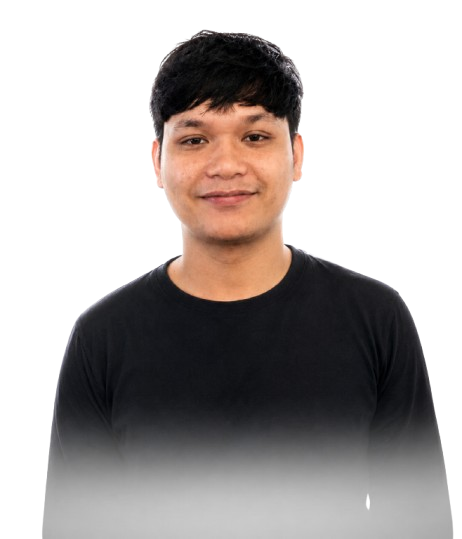
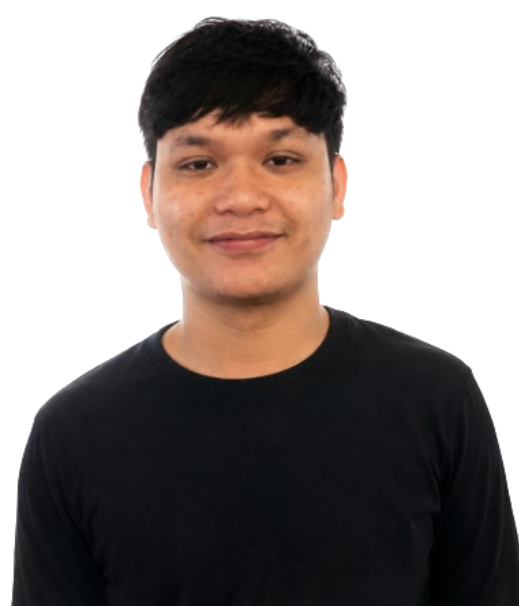
edit2

diff --git a/src/data/profile.ts b/src/data/profile.ts
@@ -84,12 +84,6 @@ export const profile = {
   /** Short pitch. hero paragraph. Keep it to 2–3 sentences. */
   pitch:
     'I build the pipelines and cloud platforms that move enterprise data from where it lands to where decisions get made. Nine years across oil and gas, government, telecommunications and finance. as a technical consultant, data engineer and data scientist. delivering systems that go live and stay live.',
-  /** Longer story. About section. Each string is a paragraph. */
-  about: [
-    'I work at the point where data engineering meets cloud architecture. Most of my days are spent designing integration layers. pulling from DB2, SQL Server, PostgreSQL, Oracle and MySQL through DataStage, SSIS, Talend and Azure Data Factory. and making sure what comes out the other end is something an analyst or a model can actually trust.',
-    'Since 2019 I have worked as a Technical Consultant at IBM Indonesia, which means I am usually embedded with a client rather than sitting behind a product. That has taken me through an oil and gas major, the Indonesian Ministry of Health, a national telecommunications operator and a finance company. The problems change, but the pattern rarely does: an on-premises estate that has outgrown itself, and a migration path to the cloud that has to happen without the reporting going dark.',
-    'I trained as a statistician at Universitas Padjadjaran, and it still shapes how I approach a problem. I would rather understand the distribution of the data than the shape of the pipeline first. That background is also where the machine learning work comes from: forecasting, interpolating missing signal, and building models that feed dashboards instead of sitting in a notebook.',
-  ],
   /** Small facts shown as a strip under the hero. Keep to 3–4. */
   stats: [
     { value: '9+', label: 'Years in data & cloud' },
@@ -330,7 +324,6 @@ export const projects: Project[] = [
 /* ── Navigation ───────────────────────────────────────────── */
 
 export const sections = [
-  { id: 'about', label: 'About' },
   { id: 'skills', label: 'Skills' },
   { id: 'experience', label: 'Experience' },
   { id: 'projects', label: 'Portfolio' },

diff --git a/src/App.tsx b/src/App.tsx
@@ -1,6 +1,5 @@
 import { Nav } from './components/Nav'
 import { Hero } from './components/Hero'
-import { About } from './components/About'
 import { Skills } from './components/Skills'
 import { Experience } from './components/Experience'
 import { Projects } from './components/Projects'
@@ -16,7 +15,7 @@ export default function App() {
   return (
     <>
       <a
-        href="#about"
+        href="#skills"
         className="sr-only focus:not-sr-only focus:fixed focus:top-4 focus:left-4 focus:z-100 focus:rounded-lg focus:bg-ink-900 focus:px-4 focus:py-2 focus:text-sm focus:text-white dark:focus:bg-white dark:focus:text-ink-900"
       >
         Skip to content
@@ -26,7 +25,6 @@ export default function App() {
 
       <main>
         <Hero />
-        <About />
         <Skills />
         <Experience />
         <Projects />

diff --git a/src/components/Experience.tsx b/src/components/Experience.tsx
@@ -37,7 +37,7 @@ export function Experience() {
   return (
     <Section
       id="experience"
-      eyebrow="03 — Experience"
+      eyebrow="02 — Experience"
       title="Where I've worked"
       intro="Roles in reverse-chronological order, with the work I'm proudest of in each."
     >

diff --git a/src/components/Skills.tsx b/src/components/Skills.tsx
@@ -6,7 +6,7 @@ export function Skills() {
   return (
     <Section
       id="skills"
-      eyebrow="02 — Skills"
+      eyebrow="01 — Skills"
       title="What I work with"
       intro="The tools I reach for most often, grouped by where they sit in the stack."
     >

diff --git a/src/components/Projects.tsx b/src/components/Projects.tsx
@@ -12,7 +12,7 @@ export function Projects() {
   return (
     <Section
       id="projects"
-      eyebrow="04 — Portfolio"
+      eyebrow="03 — Portfolio"
       title="Things I've built"
       intro="Side projects and work I can talk about publicly."
     >
